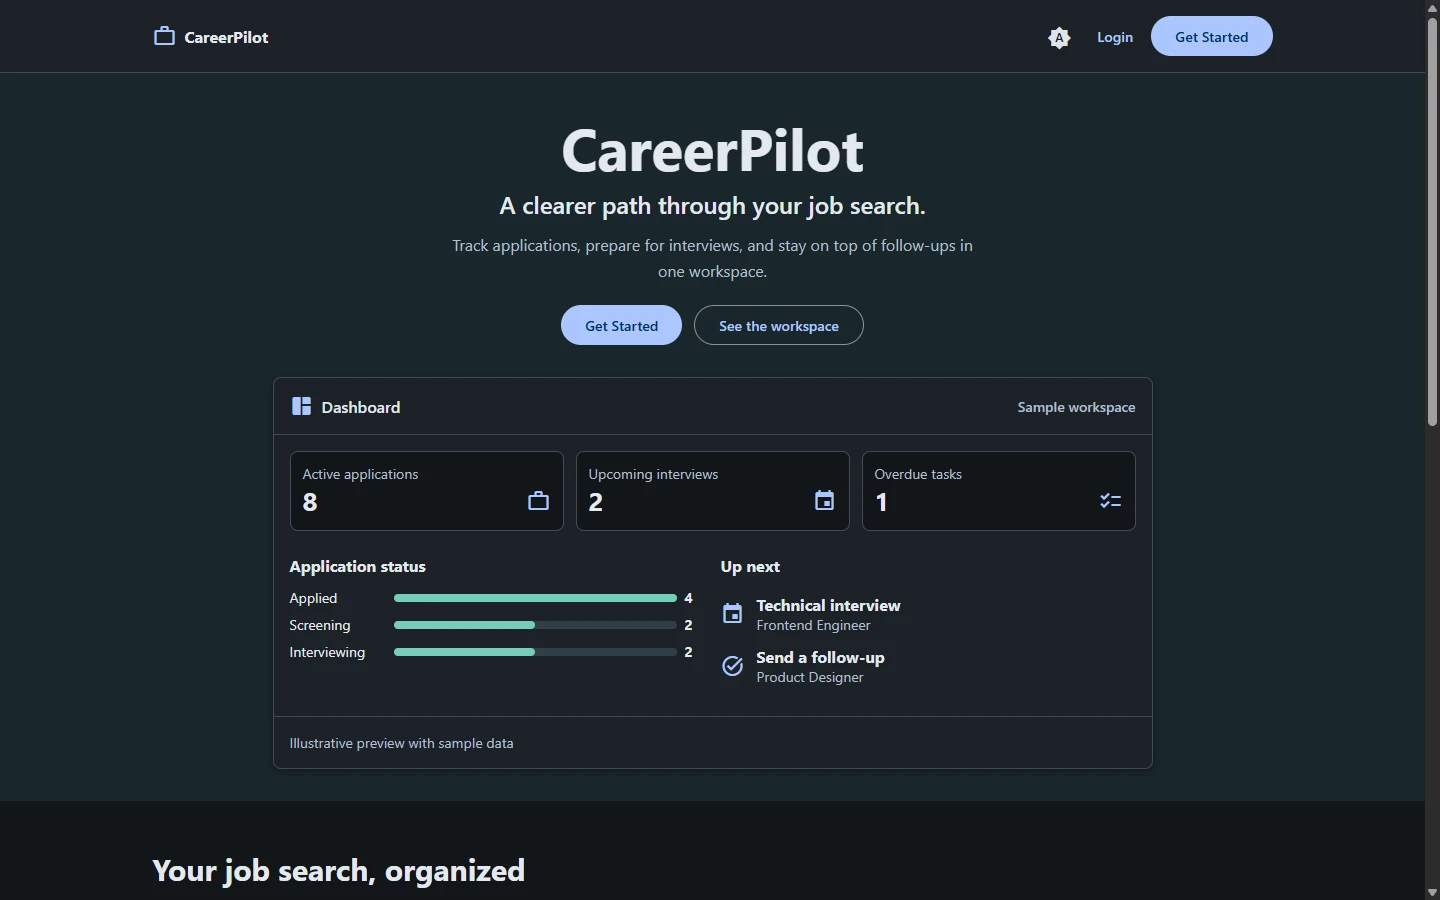
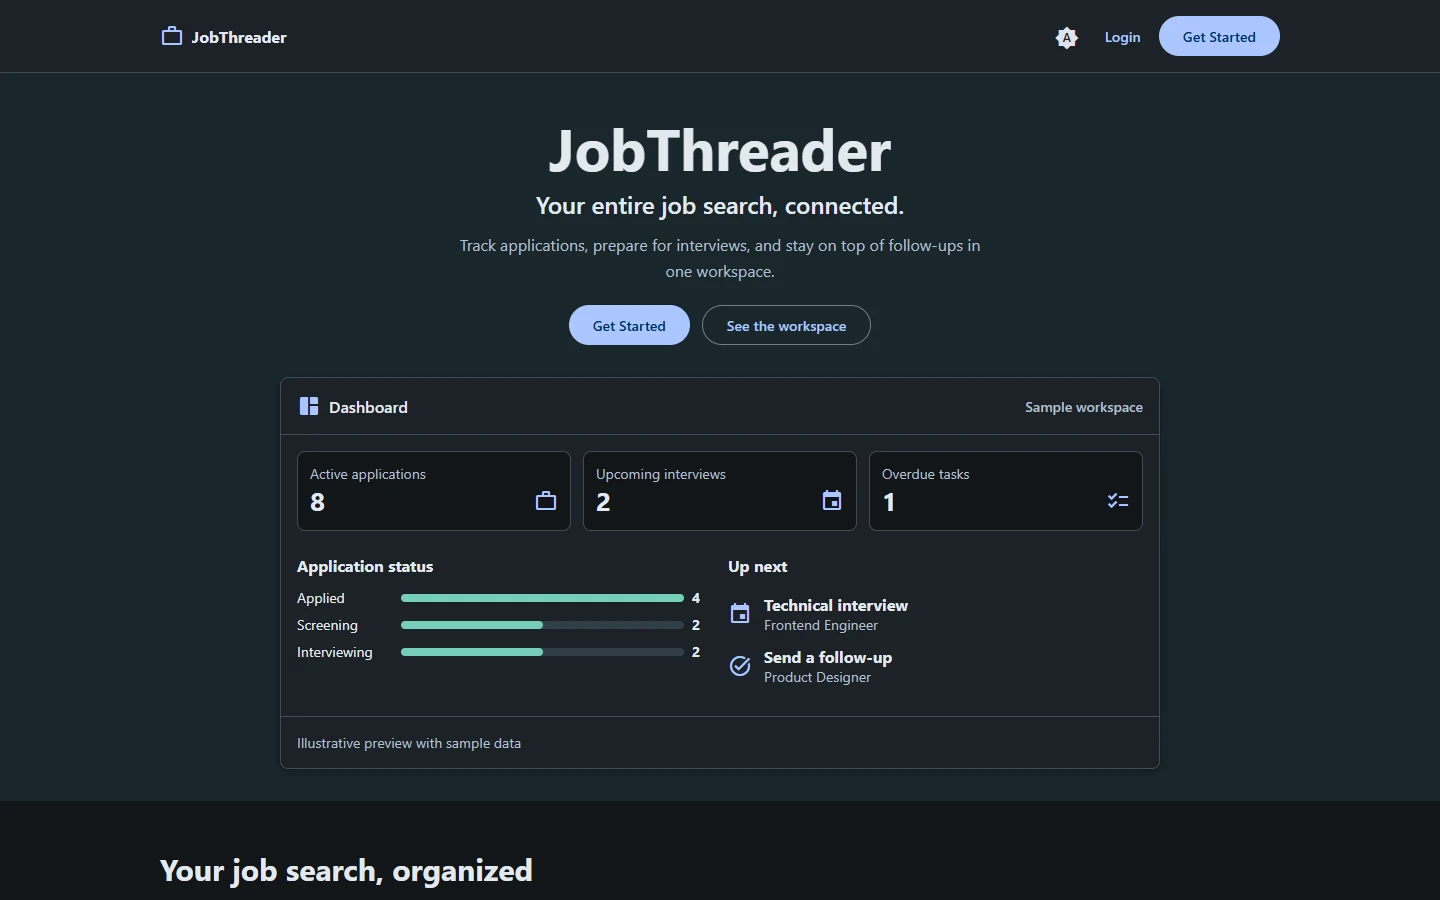
feat(branding): rebrand public UI from CareerPilot to JobThreader

diff --git a/apps/frontend/src/app/features/landing/landing-page.component.spec.ts b/apps/frontend/src/app/features/landing/landing-page.component.spec.ts
@@ -27,6 +27,7 @@ describe('Public landing routes', () => {
     await harness.navigateByUrl('/', LandingPageComponent);
     const page = harness.routeNativeElement;
     expect(page?.querySelector('h1')?.textContent).toBe(productBrand.name);
+    expect(page?.querySelector('.tagline')?.textContent).toBe(productBrand.tagline);
     expect(page?.textContent).toContain('Illustrative preview with sample data');
     expect(page?.textContent).toContain('How it works');
     expect(page?.textContent).toContain('deterministic coverage');
@@ -43,6 +44,9 @@ describe('Public landing routes', () => {
     const router = TestBed.inject(Router);
     await harness.navigateByUrl('/login');
     expect(router.url).toBe('/auth/login');
+    expect(harness.routeNativeElement?.querySelector('.auth-brand')?.textContent?.trim()).toContain(
+      productBrand.name,
+    );
     expect(harness.routeNativeElement?.querySelector('h1')?.textContent).toBe('Sign in');
     await harness.navigateByUrl('/register');
     expect(router.url).toBe('/auth/register');

diff --git a/apps/frontend/src/index.html b/apps/frontend/src/index.html
@@ -2,8 +2,16 @@
 <html lang="en">
   <head>
     <meta charset="utf-8" />
-    <title>CareerPilot</title>
+    <title>JobThreader</title>
     <base href="/" />
+    <link rel="icon" type="image/svg+xml" href="favicon.svg" />
+    <meta
+      name="description"
+      content="Track job applications, manage interviews and follow-ups, and compare resume skills with job descriptions."
+    />
+    <meta property="og:type" content="website" />
+    <meta property="og:title" content="JobThreader" />
+    <meta property="og:description" content="Your entire job search, connected." />
     <meta name="viewport" content="width=device-width, initial-scale=1" />
     <meta name="color-scheme" content="light dark" />
     <script>

diff --git a/apps/frontend/src/app/core/config/product-brand.ts b/apps/frontend/src/app/core/config/product-brand.ts
@@ -1,5 +1,5 @@
 export const productBrand = {
-  name: 'CareerPilot',
-  tagline: 'A clearer path through your job search.',
+  name: 'JobThreader',
+  tagline: 'Your entire job search, connected.',
   icon: 'work_outline',
 } as const;

diff --git a/README.md b/README.md
@@ -1,8 +1,10 @@
-# CareerPilot
+# JobThreader
+
+**Your entire job search, connected.**
 
 Modern full-stack job application tracking platform built with Angular 20, Node.js 22, PostgreSQL, Docker, and GitHub Actions.
 
-Phase 10 UI/UX Modernization & Design System is implemented. CareerPilot currently includes registration, login,
+Phase 10 UI/UX Modernization & Design System is implemented. JobThreader currently includes registration, login,
 logout, refresh-token rotation, session restoration, protected company CRUD, nested contact
 management, protected job application CRUD, append-only application status history, transactional
 status transitions, interview scheduling, application tasks, an analytics dashboard, private resume
@@ -11,16 +13,16 @@ frontend/backend tests for the completed feature set.
 
 ## Application Preview
 
-The signed-out landing page introduces CareerPilot and previews the dashboard with sample data.
+The signed-out landing page introduces JobThreader and previews the dashboard with sample data.
 The public Appearance menu supports Light, Dark, and System.
 
 | Desktop · Light                                                                                   | Desktop · Dark                                                                                  |
 | ------------------------------------------------------------------------------------------------- | ----------------------------------------------------------------------------------------------- |
-| ![CareerPilot landing page on desktop in Light mode](docs/screenshots/landing-desktop-light.webp) | ![CareerPilot landing page on desktop in Dark mode](docs/screenshots/landing-desktop-dark.webp) |
+| ![JobThreader landing page on desktop in Light mode](docs/screenshots/landing-desktop-light.webp) | ![JobThreader landing page on desktop in Dark mode](docs/screenshots/landing-desktop-dark.webp) |
 
 **Mobile · Light.** The hero and sample dashboard adapt to a narrow viewport.
 
-![CareerPilot landing page on mobile in Light mode](docs/screenshots/landing-mobile-light.webp)
+![JobThreader landing page on mobile in Light mode](docs/screenshots/landing-mobile-light.webp)
 
 ## Architecture
 
@@ -126,7 +128,7 @@ docker compose exec backend pnpm --filter @careerpilot/backend migrate:up
 
 ## Authentication
 
-CareerPilot uses short-lived JWT access tokens held only in frontend memory and rotating refresh
+JobThreader uses short-lived JWT access tokens held only in frontend memory and rotating refresh
 tokens delivered through HTTP-only cookies. PostgreSQL stores only refresh-token hashes.
 
 Read these documents before changing authentication:

diff --git a/docs/design-system.md b/docs/design-system.md
@@ -1,4 +1,4 @@
-# CareerPilot Design System
+# JobThreader Design System
 
 ## Styling Responsibilities
 
@@ -31,7 +31,7 @@ or reload required. A script in the document head restores the stored
 falls back to System. The service keeps the color-scheme hint in sync with runtime
 changes. Preference is local to this browser and independent of auth.
 
-The document root controls both Material and CareerPilot colors, so overlays attached
+The document root controls both Material and JobThreader colors, so overlays attached
 to the body inherit the same scheme. When introducing a production CSP, allow the
 startup script by hash/nonce or move it to an explicitly allowed blocking asset.
 
